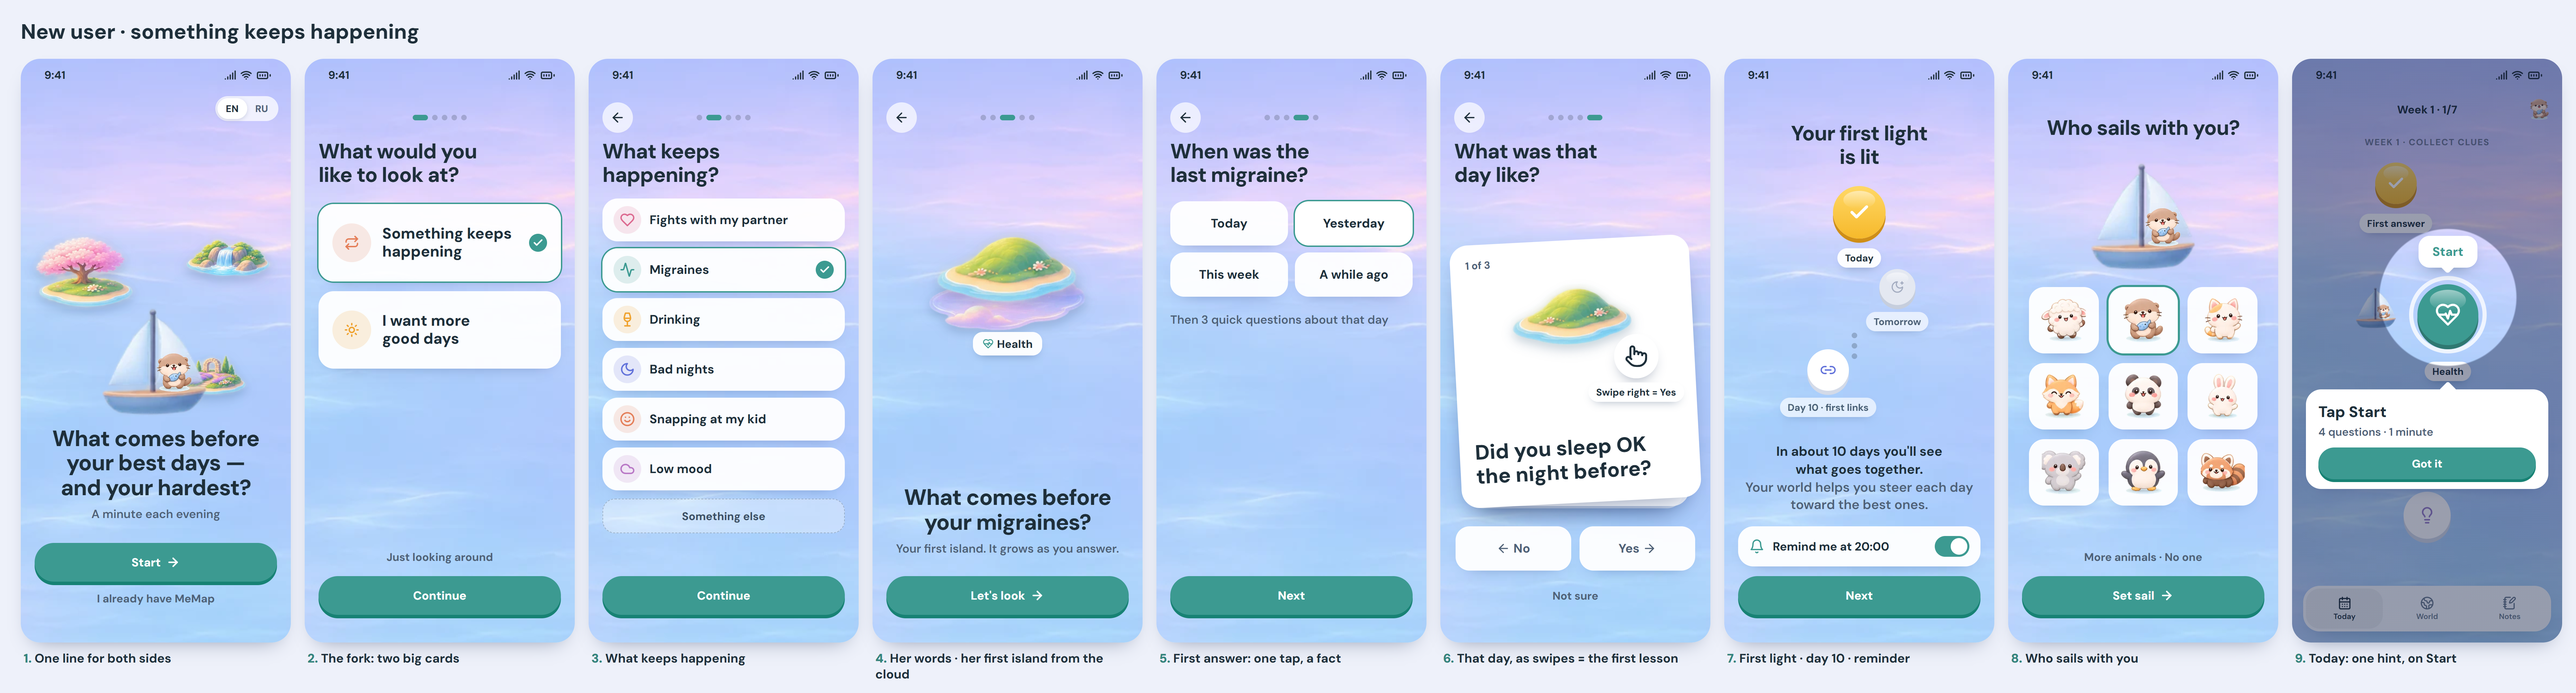
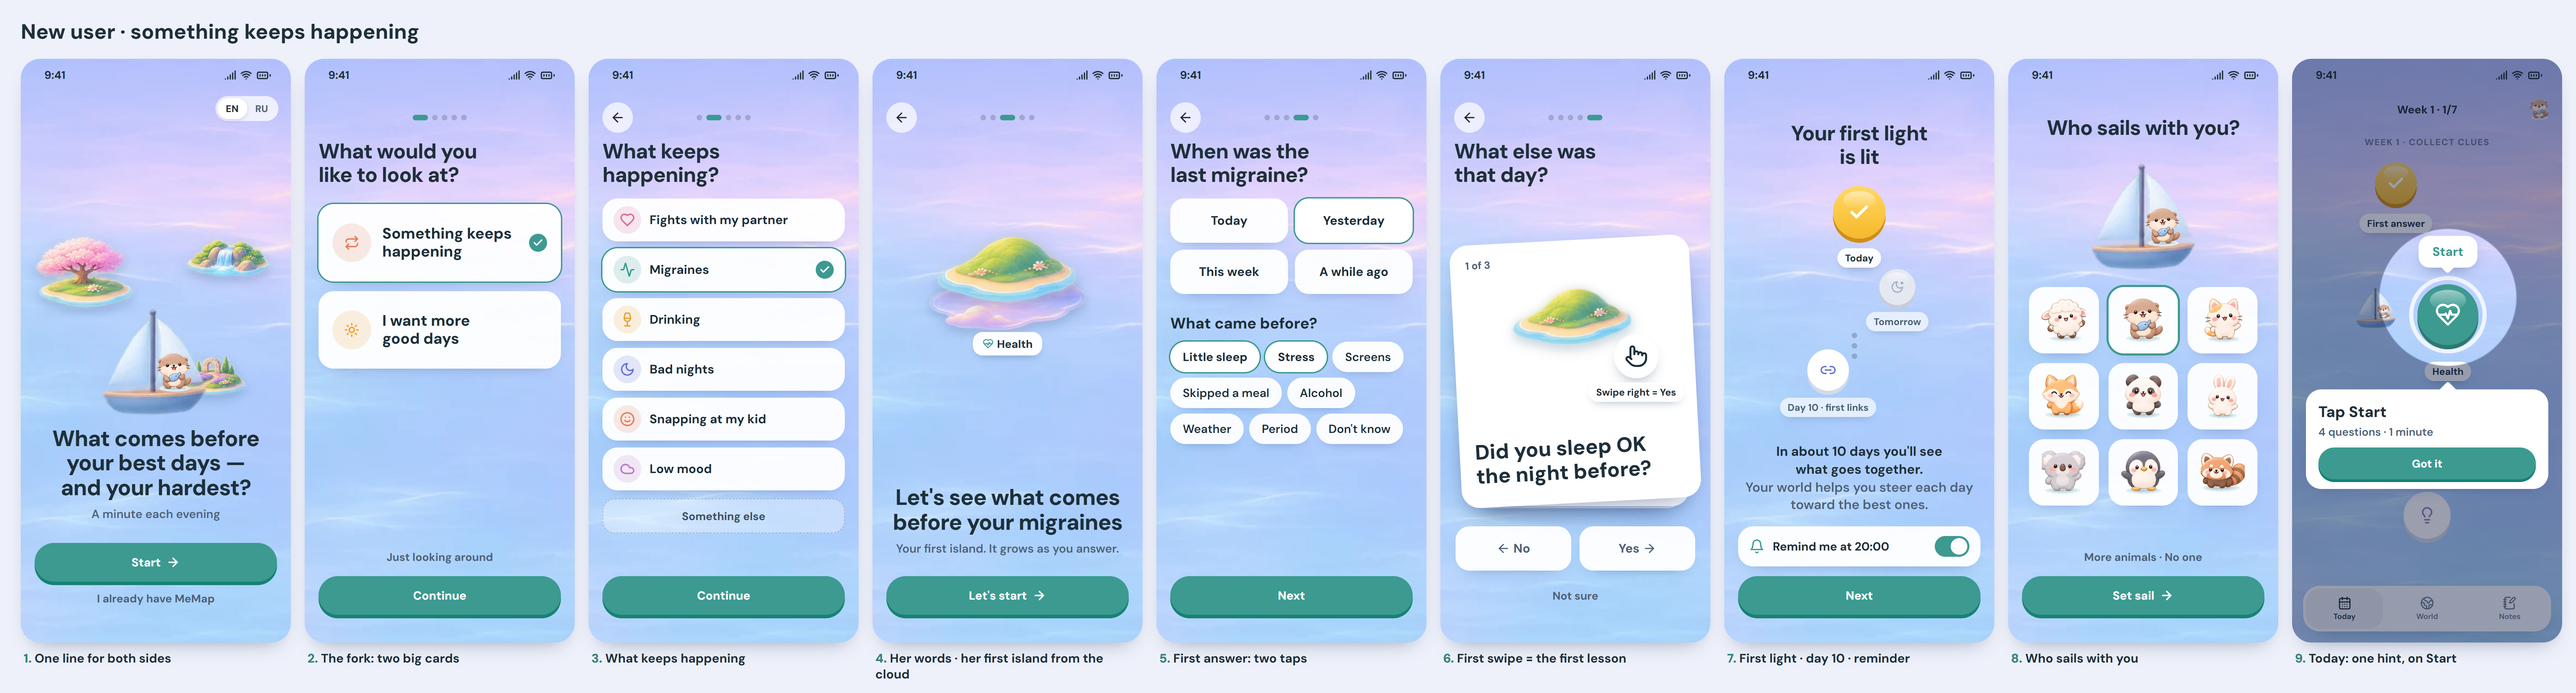
Onboarding v2: the promise is said, not asked
Her note (Nov 5 2026), read right this time: "What comes before your
migraines?" sat among the questions as a big question with nothing to tap,
so it read as "answer me". It is now a promise — "Let's see what comes
before your migraines" / "...your best days" — with "Let's start". The first
answer screen is back as it was ("What came before?" / "What helped?"):
she didn't ask for that change.

diff --git a/marketing/aurora-light-ux/onboarding-v2-coverage.md b/marketing/aurora-light-ux/onboarding-v2-coverage.md
@@ -25,7 +25,7 @@
 | Fights with my partner | argued-with-partner | ✅ готова (дверь, 3 соседних вопроса, «что было перед») |
 | Migraines | migraine | ✅ готова |
 | Drinking | drank-alcohol | ✅ готова |
-| **Bad nights** | — | ⚠ **двери нет.** Вопросы есть: «Slept enough (7+ hours)», «Recovered after sleep», «In bed before midnight», «Coffee after 2pm», «Stuck to a screen 4h+». Нужна дверь |
+| **Bad nights** | — | ⚠ **двери нет.** Вопросы есть: «Slept enough (7+ hours)», «Recovered after sleep», «In bed before midnight», «Coffee after 2pm», «Stuck to a screen 4h+». Нужны дверь и «What kept you up?» |
 | Snapping at my kid | yelled-at-kid | ✅ готова |
 | Low mood | felt-depressed | ✅ готова |
 | Something else | свой остров | ✅ есть |
@@ -56,10 +56,6 @@
 | Ate late in the evening | Поздно ела вечером | Body & habits | трудный | сосед для Bad nights и Energy |
 
 И сделать в коде:
-1. Дверь **Bad nights** (главный — «Slept enough», «нет» = плохая ночь; соседи — кофе после 14:00, экраны, просыпалась ночью).
-2. Семь дверей **хороших дней** (главный хороший вопрос + 3 соседа).
+1. Дверь **Bad nights** (главный — «Slept enough», «нет» = плохая ночь) с «What kept you up?»: кофе, экраны, мысли, поздняя еда, шум, ребёнок, боль, не знаю.
+2. Семь дверей **хороших дней** (главный хороший вопрос + 3 соседа) и «What helped?»: Slept well, Moved, Outside, Ate well, Good people, Rest, Sun, Don't know.
 3. Развилку и обещание её словами (доски 49 и 50).
-
-## Первый ответ — один факт (её замечание, 5 нояб.)
-
-Обещаем «узнаем, что бывает перед», поэтому на первом ответе не спрашиваем «что было перед?» / «что помогло?». Первый ответ — одно касание: когда это было. Потом 3 карточки-свайпа про тот день (сон, стресс, еда…) — это и есть данные. Её собственная догадка — позже, в шаге «Your hunch» на пути, где приложение проверяет её на ответах. Подсказки-чипы «what came before» из онбординга убраны.
